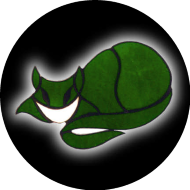
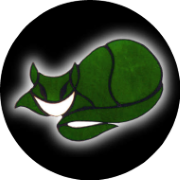
Reformat footer again.

diff --git a/_includes/footer.html b/_includes/footer.html
@@ -1,7 +1,6 @@
 <footer class="container footer">
 	<div class="row"> 
-		<div class="nine columns">
-			<br/>
+		<div class="two-thirds column">
 			<p>{{ site.description | escape }}</p>
 			<p>-- {{ site.author | escape }}</p>
 			<p>
@@ -16,7 +15,7 @@
 				<a class="sprite sprite-rss" href="http://localhost:4000/feed.xml" target="_blank"> </a>
 			</p>
 		</div>
-		<div class="three columns u-pull-right">
+		<div class="one-third column profile">
 			<image src="/assets/cheshire.png"></image>
 		</div>
 	</div>

diff --git a/assets/main.scss b/assets/main.scss
@@ -42,6 +42,19 @@ a {
   margin-top: 1rem;
 }
 
+
+.profile {
+  padding-top:3rem;
+  text-align: center;
+}
+
+@media (#{$bp-larger-than-phablet}) {
+  .profile {
+    padding-top:0px;
+    float: right;
+  }
+}
+
 .sprite {
     background-image: url(spritesheet.png);
     background-repeat: no-repeat;
